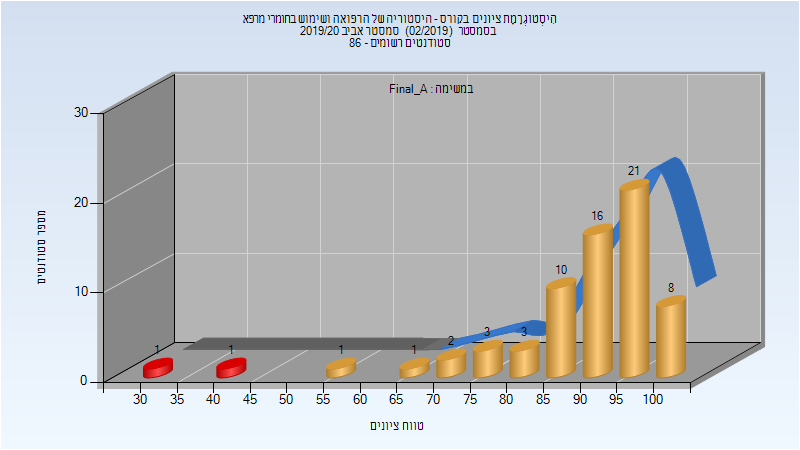
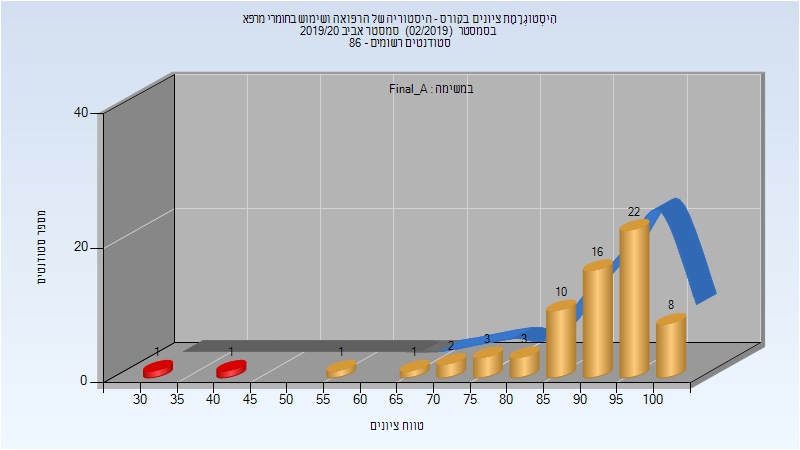
Deploy michael-maltsev/technion-histograms to github.com/michael-maltsev/technion-histograms.git:gh-pages

diff --git a/324290/index.html b/324290/index.html
@@ -765,12 +765,12 @@
 </thead>
 <tbody>
 <tr>
-<td>67</td>
-<td>65/2</td>
+<td>68</td>
+<td>66/2</td>
 <td>97</td>
 <td>33</td>
 <td>100</td>
-<td>89.851</td>
+<td>89.941</td>
 <td>94</td>
 </tr>
 </tbody>

diff --git a/324290/README.md b/324290/README.md
@@ -238,5 +238,5 @@
 
 | סטודנטים | עברו/נכשלו | אחוז עוברים | ציון מינימלי | ציון מקסימלי | ממוצע | חציון |
 | ---- | ---- | ---- | ---- | ---- | ---- | ---- |
-| 67 | 65/2 | 97 | 33 | 100 | 89.851 | 94 |
+| 68 | 66/2 | 97 | 33 | 100 | 89.941 | 94 |
 
